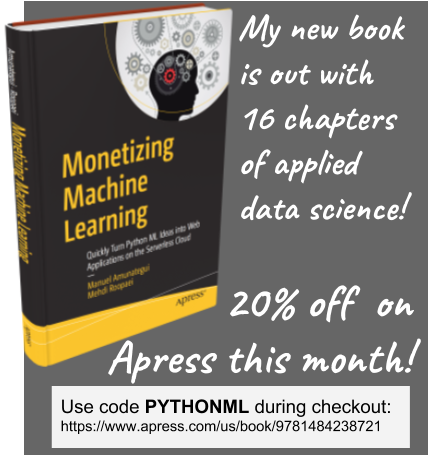
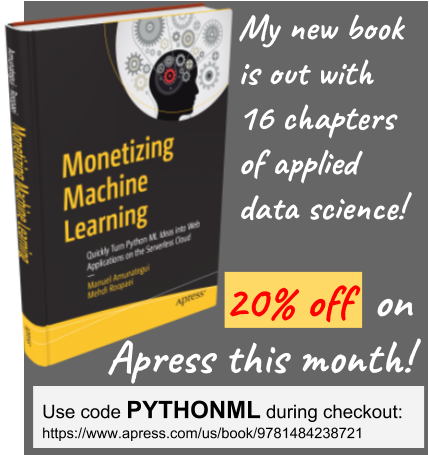
ap

Changed region(s): [[0.0606, 0.8308, 1.0, 0.9846], [0.5152, 0.5846, 0.8485, 0.7385], [0.8788, 0.6462, 0.9697, 0.7077]]

diff --git a/_includes/signup.html b/_includes/signup.html
@@ -90,14 +90,14 @@
                         <BR>
                         <BR>
                          <div id="images">
-                              <font class="text-white">Hey, 20% off my new book!</font><BR>
+                              <H3><font class="text-white">Hey, 20% off my new book!</font></H3><BR><BR>
                                <a href='https://www.apress.com/us/book/9781484238721' target='_blank'>
                                                    <img src="https://amunategui.github.io/monetize-ml-apress-coupon.png"
                                                    alt="Get my new book Monetizing Machine Learning on Apress today!"
                                                    title="Get my new book Monetizing Machine Learning on Apress today!"
-                                                   style="padding:0px; border:0px; width: 30%; height: 30%" />
-                                                </a><BR>
-                                <font class="text-white">From Apress Books for a limited time!!</font>
+                                                   style="padding:0px; border:0px; width: 40%; height: 40%" />
+                                                </a><BR><BR>
+                            <H3><font class="text-white">From Apress Books for a limited time!!</font></H3>
 
                         </div>
                         <BR>
